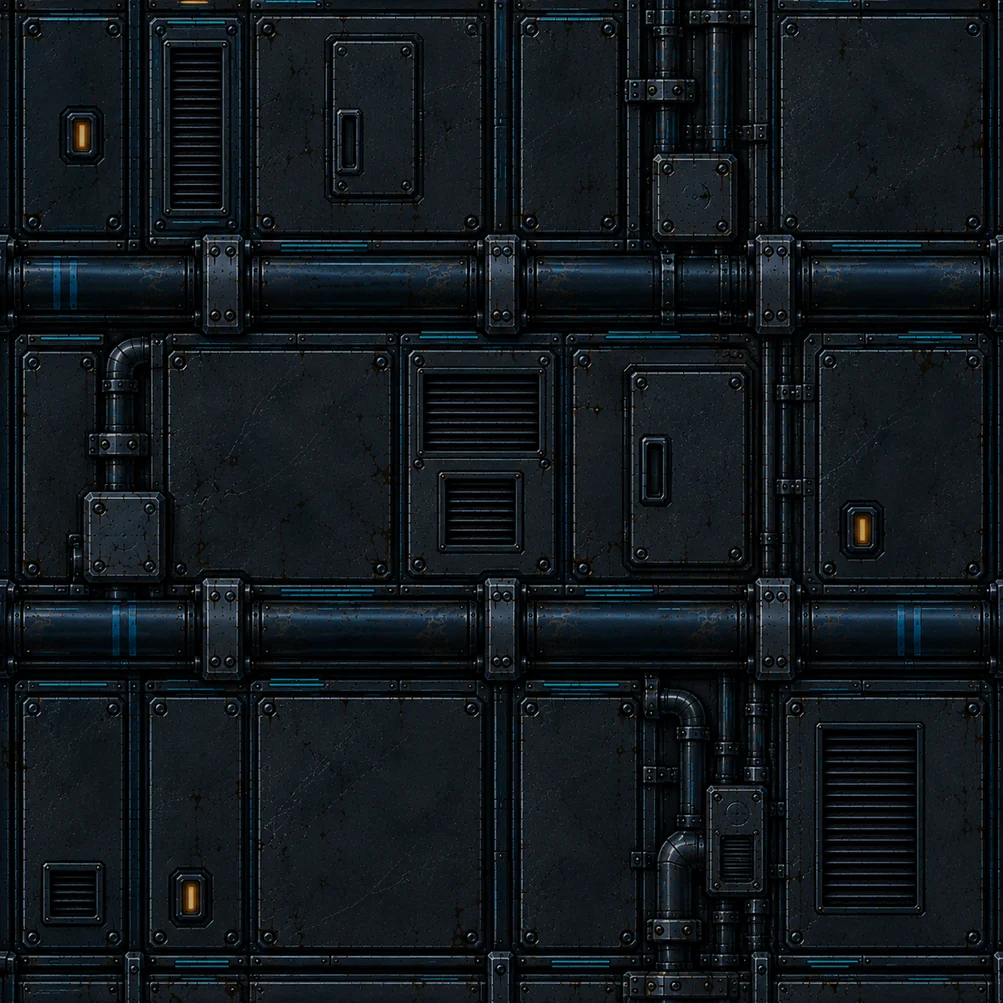
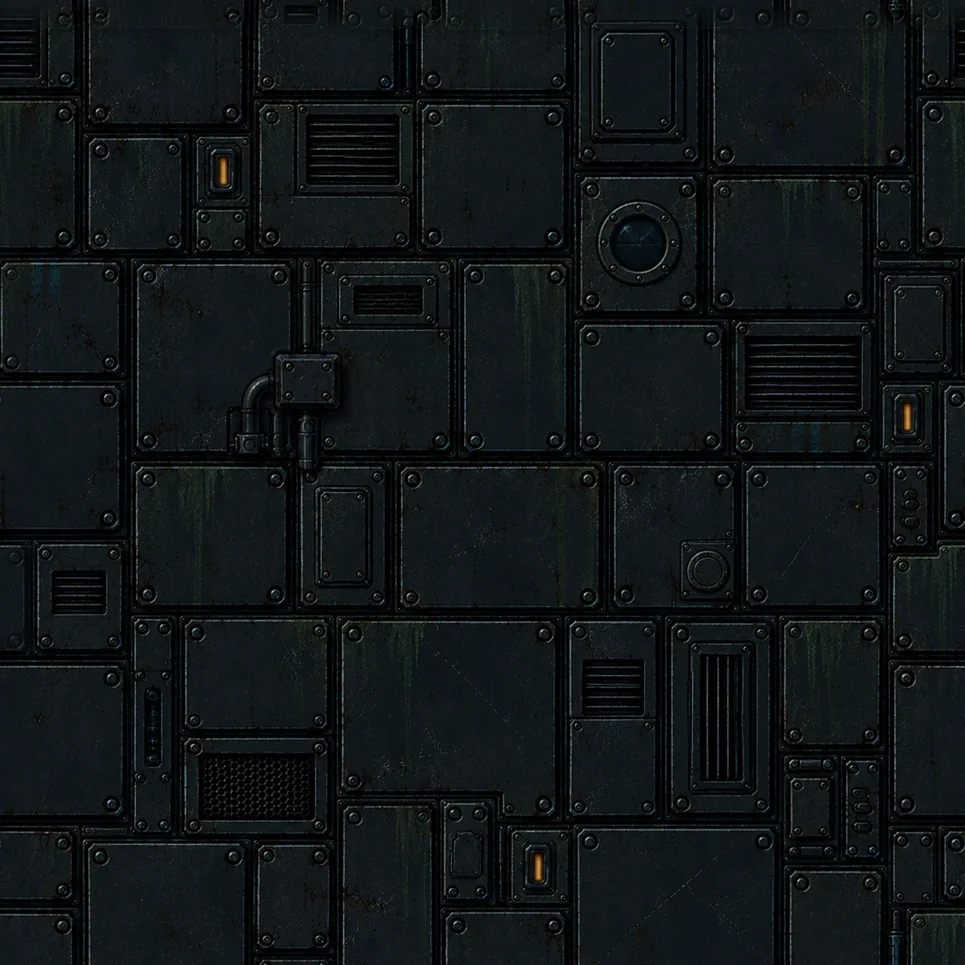
Serre en 2D : une tôle calme, sa salle des machines, des vitrages variés
Symptômes (analyse du rendu du module, 02/10) :
- la tôle se répétait en bandes : une seule variante par rangée, le même
  motif ~8 fois d'affilée sur la longueur du module ;
- les deux tôles n'avaient pas la même échelle (3 rangées de tuyaux contre
  2), et leurs tuyaux horizontaux se confondaient avec les tubes de la
  mini-carte — les tubes éteints disparaissaient ;
- la serre ne se reconnaissait qu'à son rebord ; trois baies identiques se
  lisaient comme un copier-coller ; la marche de la salle des machines
  avait la même tôle que le reste.

Correctifs :
- deux tôles calmes livrées, sans tuyau traversant ; le script refait leur
  raccord haut/bas, que le générateur ratait (écart au bord 8 à 20 fois
  celui de deux lignes voisines) ;
- variante tirée au sort par rangée, chaque carreau retourné ou non (le
  miroir horizontal garde le raccord) ;
- une tôle de salle des machines sur la marche de chaque forme
  (MiseEnPage.machines) ; une deuxième baie en alternance, une colonne de
  culture entre deux voies ; un halo vert autour des vitrages ; un liseré
  d'ombre sous les tubes ;
- les bords, coins et angles portaient l'ancienne tôle dans leur moitié
  intérieure : peints sur un calque, seule la bande du rebord est gardée,
  fondue vers la nouvelle tôle.

Vérification : 4 tests neufs (salle des machines par forme, colonne sans
contact avec une cellule — rouge avec une colonne deux fois plus haute —,
[…]

Changed region(s): [[0.0, 0.0, 1.0, 1.0]]

diff --git a/src/render/module2dCanvas.ts b/src/render/module2dCanvas.ts
@@ -9,6 +9,7 @@ import { TUBE, type MiseEnPage } from './module2d'
 export const PIECES_MODULE2D = [
   'tempere-tole',
   'tempere-tole-2',
+  'tempere-tole-machines',
   'tempere-bord-haut',
   'tempere-bord-bas',
   'tempere-bout-gauche',
@@ -20,6 +21,8 @@ export const PIECES_MODULE2D = [
   'tempere-rentrant-haut',
   'tempere-rentrant-bas',
   'tempere-baie',
+  'tempere-baie-2',
+  'tempere-colonne',
   'tempere-trappe',
   'tempere-machinerie',
   'cellule-joue',
@@ -63,6 +66,11 @@ const LIGNE_BAS = 292.5 // bord-bas : le bas de la quille
 const LIGNE_GAUCHE = 225 // bout-gauche : le bord extérieur du capot
 const LIGNE_DROITE = 294.5 // bout-droit
 const BANDE_BOUT = 150 // la bande du capot, sans collier, prise en haut de l'image
+// la bande gardée des bords, depuis la silhouette, en largeurs de salle :
+// le rebord et la rangée de vitrages qu'il porte (0,26 mesuré sur le bord
+// haut peint), puis le fondu vers la tôle
+const REBORD = 0.28
+const FONDU_REBORD = 0.12
 // les coins : où tombe le sommet de la silhouette, et leur échelle propre
 // — le générateur ne les a pas peints à l'échelle des bords
 const COINS: Record<string, { ax: number; ay: number; k: number }> = {
@@ -102,7 +110,31 @@ export function peintModule2d(mp: MiseEnPage, p: Pieces, fen?: Fenetre): HTMLCan
     : { x0: -Infinity, y0: -Infinity, x1: Infinity, y1: Infinity }
   const hors = (x0: number, y0: number, x1: number, y1: number) => x1 < vu.x0 || x0 > vu.x1 || y1 < vu.y0 || y0 > vu.y1
   const img = (n: string) => p.get(n)!
-  // 1. la tôle, dans la silhouette : les deux variantes par rangées décalées
+  // 1. la tôle, dans la silhouette. Une variante par rangée, tirée au sort,
+  // et chaque carreau retourné ou non : une rangée d'une seule variante
+  // montrait le même motif ~8 fois d'affilée (analyse du 02/10). Le miroir
+  // horizontal garde le raccord — le bord droit d'un carreau retourné est
+  // le bord gauche de l'original —, mélanger les variantes dans une rangée
+  // ferait des coutures
+  const tire = (i: number, j: number) => (((i * 73856093) ^ (j * 19349663)) >>> 0) % 1000 / 1000
+  const pave = (im: HTMLImageElement, x0: number, y0: number, x1: number, y1: number, graine: number) => {
+    const tl = im.width * fi
+    for (let i = 0, y = y0; y < y1; i++, y += tl) {
+      if (hors(x0, y, x1, y + tl)) continue
+      const dec = ((i * 211 + graine) % im.width) * fi
+      for (let j = 0, x = x0 - dec; x < x1; j++, x += tl) {
+        if (hors(x, y, x + tl, y + tl)) continue
+        if (tire(i + graine, j) < 0.5) c.drawImage(im, x, y, tl + 0.5, tl + 0.5)
+        else {
+          c.save()
+          c.translate(x + tl, y)
+          c.scale(-1, 1)
+          c.drawImage(im, -0.5, 0, tl + 0.5, tl + 0.5)
+          c.restore()
+        }
+      }
+    }
+  }
   c.save()
   c.beginPath()
   mp.silhouette.forEach((s, i) => (i ? c.lineTo(s.x, s.y) : c.moveTo(s.x, s.y)))
@@ -112,14 +144,40 @@ export function peintModule2d(mp: MiseEnPage, p: Pieces, fen?: Fenetre): HTMLCan
   const tl = toles[0].width * fi
   for (let i = 0, y = 0; y < mp.hauteur; i++, y += tl) {
     if (hors(0, y, mp.largeur, y + tl)) continue
-    const dec = ((i * 211) % toles[0].width) * fi
-    for (let x = -dec; x < mp.largeur; x += tl) if (!hors(x, y, x + tl, y + tl)) c.drawImage(toles[i % 2], x, y, tl + 0.5, tl + 0.5)
+    c.save()
+    c.beginPath()
+    c.rect(0, y, mp.largeur, tl)
+    c.clip()
+    pave(toles[tire(i, 7) < 0.5 ? 0 : 1], 0, y, mp.largeur, y + tl, i * 37)
+    c.restore()
   }
-  // 2. les éléments uniques
+  // la salle des machines, sa propre tôle, séparée du reste par un joint
+  for (const z of mp.machines) {
+    if (hors(z.minX, z.minY, z.maxX, z.maxY)) continue
+    c.save()
+    c.beginPath()
+    c.rect(z.minX, z.minY, z.maxX - z.minX, z.maxY - z.minY)
+    c.clip()
+    pave(img('tempere-tole-machines'), z.minX, z.minY, z.maxX, z.maxY, 101)
+    c.restore()
+    c.strokeStyle = 'rgba(0,0,0,0.7)'
+    c.lineWidth = 0.012 * mp.densite
+    c.strokeRect(z.minX, z.minY, z.maxX - z.minX, z.maxY - z.minY)
+  }
+  // 2. les éléments uniques ; les vitrages de la serre débordent d'un halo
+  // vert sur la tôle : sans lui, la serre ne se reconnaissait qu'au rebord
   for (const e of mp.elements) {
     const im = img(`tempere-${e.nom}`)
     const h = (e.l * im.height) / im.width
-    if (hors(e.x - e.l / 2, e.y - h / 2, e.x + e.l / 2, e.y + h / 2)) continue
+    const r = Math.max(e.l, h) * 0.55
+    if (hors(e.x - r, e.y - r, e.x + r, e.y + r)) continue
+    if (e.nom === 'baie' || e.nom === 'baie-2' || e.nom === 'colonne') {
+      const g = c.createRadialGradient(e.x, e.y, 0, e.x, e.y, r)
+      g.addColorStop(0, 'rgba(90,200,120,0.09)')
+      g.addColorStop(1, 'rgba(90,200,120,0)')
+      c.fillStyle = g
+      c.fillRect(e.x - r, e.y - r, 2 * r, 2 * r)
+    }
     c.drawImage(im, e.x - e.l / 2, e.y - h / 2, e.l, h)
   }
   c.restore()
@@ -134,6 +192,9 @@ export function peintModule2d(mp: MiseEnPage, p: Pieces, fen?: Fenetre): HTMLCan
     c.translate(t.ax, t.ay)
     if (t.ax === t.bx) c.rotate(t.by > t.ay ? Math.PI / 2 : -Math.PI / 2)
     else if (t.bx < t.ax) c.rotate(Math.PI)
+    // un liseré d'ombre : les tubes éteints se perdaient dans la tôle
+    c.fillStyle = 'rgba(0,0,0,0.5)'
+    c.fillRect(-ep * 0.8, -ep * 0.8, long + ep * 1.6, ep * 1.6)
     c.beginPath()
     c.rect(-ep / 2, -ep / 2, long + ep, ep)
     c.clip()
@@ -150,6 +211,16 @@ export function peintModule2d(mp: MiseEnPage, p: Pieces, fen?: Fenetre): HTMLCan
   }
   // 4. les cellules
   for (const k of mp.cellules) if (!hors(k.x - k.l / 2, k.y - k.h / 2, k.x + k.l / 2, k.y + k.h / 2)) c.drawImage(img(`cellule-${k.etat}`), k.x - k.l / 2, k.y - k.h / 2, k.l, k.h)
+  // LES BORDS SUR UN CALQUE, FONDUS VERS L'INTÉRIEUR : bords, coins et
+  // angles rentrants ont été peints avec l'ANCIENNE tôle dans leur moitié
+  // intérieure — contre la nouvelle, une couture le long de toute la coque
+  // et des carrés plats aux angles (analyse du 02/10). Seule la bande du
+  // rebord, contre la silhouette, est gardée ; au-delà, elle s'efface
+  const calque = document.createElement('canvas')
+  calque.width = toile.width
+  calque.height = toile.height
+  const q = calque.getContext('2d')!
+  if (fen) q.setTransform(fen.k, 0, 0, fen.k, -fen.x * fen.k, -fen.y * fen.k)
   // 5. les bords : chaque arête selon son sens (silhouette horaire)
   const n = mp.silhouette.length
   const bandeG = img('tempere-bout-gauche')
@@ -165,7 +236,7 @@ export function peintModule2d(mp: MiseEnPage, p: Pieces, fen?: Fenetre): HTMLCan
       const bh = BANDE_BOUT * f
       for (let y = Math.min(a.y, b.y); y < Math.max(a.y, b.y); y += bh) {
         const reste = Math.min(bh, Math.max(a.y, b.y) - y)
-        c.drawImage(im, 0, 0, im.width, (BANDE_BOUT * (LIVRE / 0.5) * reste) / bh, ox, y, im.width * fi, reste)
+        q.drawImage(im, 0, 0, im.width, (BANDE_BOUT * (LIVRE / 0.5) * reste) / bh, ox, y, im.width * fi, reste)
       }
     } else {
       const haut = b.x > a.x
@@ -174,7 +245,7 @@ export function peintModule2d(mp: MiseEnPage, p: Pieces, fen?: Fenetre): HTMLCan
       const lw = im.width * fi
       for (let x = Math.min(a.x, b.x); x < Math.max(a.x, b.x); x += lw) {
         const reste = Math.min(lw, Math.max(a.x, b.x) - x)
-        c.drawImage(im, 0, 0, (im.width * reste) / lw, im.height, x, oy, reste, im.height * fi)
+        q.drawImage(im, 0, 0, (im.width * reste) / lw, im.height, x, oy, reste, im.height * fi)
       }
     }
   }
@@ -189,19 +260,56 @@ export function peintModule2d(mp: MiseEnPage, p: Pieces, fen?: Fenetre): HTMLCan
     const hTout = im.height * fi
     const h = Math.min(hTout, pt.h)
     const sy = ((hTout - h) / 2 / hTout) * im.height
-    c.drawImage(im, 0, sy, im.width, (h / hTout) * im.height, pt.x - ligne * f, pt.y - h / 2, im.width * fi, h)
+    q.drawImage(im, 0, sy, im.width, (h / hTout) * im.height, pt.x - ligne * f, pt.y - h / 2, im.width * fi, h)
   }
   // 7. les coins et les angles rentrants
   for (const s of mp.silhouette) {
     if (hors(s.x, s.y, s.x, s.y)) continue
     const k = COINS[s.piece]
     const im = img(`tempere-${s.piece}`)
-    c.save()
-    c.translate(s.x, s.y)
-    if (s.miroir) c.scale(-1, 1)
-    c.drawImage(im, -k.ax * f * k.k, -k.ay * f * k.k, im.width * fi * k.k, im.height * fi * k.k)
-    c.restore()
+    q.save()
+    q.translate(s.x, s.y)
+    if (s.miroir) q.scale(-1, 1)
+    q.drawImage(im, -k.ax * f * k.k, -k.ay * f * k.k, im.width * fi * k.k, im.height * fi * k.k)
+    q.restore()
   }
+  // le masque : 1 au cœur de la coque, 0 contre la silhouette, un fondu entre
+  const masque = document.createElement('canvas')
+  masque.width = toile.width
+  masque.height = toile.height
+  const m = masque.getContext('2d')!
+  if (fen) m.setTransform(fen.k, 0, 0, fen.k, -fen.x * fen.k, -fen.y * fen.k)
+  const contour = () => {
+    m.beginPath()
+    mp.silhouette.forEach((s, i) => (i ? m.lineTo(s.x, s.y) : m.moveTo(s.x, s.y)))
+    m.closePath()
+  }
+  contour()
+  m.fillStyle = '#000'
+  m.fill()
+  m.globalCompositeOperation = 'destination-out'
+  m.strokeStyle = '#000'
+  const D = REBORD * mp.densite
+  const F = FONDU_REBORD * mp.densite
+  for (let k = 0; k < 4; k++) {
+    m.globalAlpha = 0.5
+    m.lineWidth = 2 * (D + (F * (4 - k)) / 4)
+    contour()
+    m.stroke()
+  }
+  m.globalAlpha = 1
+  m.lineWidth = 2 * D
+  contour()
+  m.stroke()
+  q.setTransform(1, 0, 0, 1, 0, 0)
+  q.globalCompositeOperation = 'destination-out'
+  q.drawImage(masque, 0, 0)
+  c.save()
+  c.setTransform(1, 0, 0, 1, 0, 0)
+  c.drawImage(calque, 0, 0)
+  c.restore()
+  // rendre la mémoire tout de suite : deux toiles de plus, à chaque salle
+  calque.width = calque.height = masque.width = masque.height = 0
   // 8. les équipements, debout sur les bords hauts
   for (const e of mp.equipements) {
     if (hors(e.x, e.y - 0.6 * mp.densite, e.x, e.y)) continue

diff --git a/src/render/module2d.ts b/src/render/module2d.ts
@@ -66,6 +66,8 @@ export interface MiseEnPage {
   salle: Rect
   cellules: { x: number; y: number; l: number; h: number; etat: EtatCellule }[]
   tubes: { ax: number; ay: number; bx: number; by: number; etat: EtatTube }[]
+  /** les zones peintes en tôle de salle des machines, en pixels de toile */
+  machines: Rect[]
   /** les éléments uniques posés sur la tôle : centre, largeur */
   elements: { nom: string; x: number; y: number; l: number }[]
   /** les équipements extérieurs posés sur un bord haut : pied, largeur relative */
@@ -204,6 +206,25 @@ function elementDeForme(forme: FormeModule, c: [number, number][]): { nom: strin
   return { nom: 'machinerie', x: c[4][0] + 0.3, y: (c[5][1] + c[10][1]) / 2, l: 0.5 }
 }
 
+/** LA SALLE DES MACHINES de chaque forme, en largeurs de salle : la marche
+ *  sous la poupe (étagée), les deux nacelles (dorsale), la tuyère (fuseau).
+ *  Peinte de la même tôle que le reste, la forme ne se lisait qu'à la
+ *  silhouette, jamais dedans (analyse du 02/10). */
+function zonesMachines(forme: FormeModule, c: [number, number][]): [number, number, number, number][] {
+  if (c.length === 4) return []
+  if (forme === 'etagee') return [[c[10][0], c[10][1], c[8][0], c[8][1]]]
+  if (forme === 'dorsale')
+    return [
+      [c[9][0], c[6][1], c[7][0], c[8][1]],
+      [c[13][0], c[10][1], c[11][0], c[12][1]],
+    ]
+  if (c.length < 16) return []
+  return [[c[6][0], c[6][1], c[7][0], c[8][1]]]
+}
+
+/** La colonne de culture : hauteur / largeur de sa pièce livrée. */
+export const RATIO_COLONNE = 3.26
+
 /** CHAQUE ANGLE PREND SA PIÈCE selon le sens du contour (horaire à l'écran) :
  *  un virage à droite est un coin saillant, à gauche un angle rentrant —
  *  les deux angles rentrants livrés, et leurs miroirs. */
@@ -294,8 +315,14 @@ export function miseEnPage(salle: Rect, vue: VueModule2d, forme: FormeModule = '
       const [u, w] = cel(r, v + 0.5)
       const k = (r * 2 + v) % 5
       const bout = r === 0 || r === vue.rangs - 1
-      const nom = bout && k % 2 === 1 ? 'machinerie' : k === 0 ? 'baie' : k === 3 ? 'trappe' : null
-      if (nom) elements.push({ nom, x: X(u), y: Y(w), l: (nom === 'baie' ? 0.95 : nom === 'trappe' ? 0.5 : 0.8) * densite })
+      // deux baies en alternance et une colonne de culture : les trois
+      // mêmes baies côte à côte se lisaient comme un copier-coller
+      const nom =
+        bout && k % 2 === 1 ? 'machinerie' : k === 0 ? (r % 2 ? 'baie-2' : 'baie') : k === 2 ? 'colonne' : k === 3 ? 'trappe' : null
+      if (!nom) continue
+      // la colonne, verticale, tient entre deux voies sans toucher leurs cellules
+      const l = { baie: 0.95, 'baie-2': 0.9, colonne: (0.6 * py) / RATIO_COLONNE, trappe: 0.5, machinerie: 0.8 }[nom]
+      elements.push({ nom, x: X(u), y: Y(w), l: l * densite })
     }
   // l'élément de la forme : la grande baie sur le pont, la trappe en haut de
   // la tour, la machinerie dans la poupe
@@ -326,6 +353,7 @@ export function miseEnPage(salle: Rect, vue: VueModule2d, forme: FormeModule = '
     salle: { minX: X(-0.5), maxX: X(0.5), minY: Y(-hr / 2), maxY: Y(hr / 2) },
     cellules,
     tubes,
+    machines: zonesMachines(forme, contour).map(([x0, y0, x1, y1]) => ({ minX: X(x0), minY: Y(y0), maxX: X(x1), maxY: Y(y1) })),
     elements,
     equipements,
     colliers: {

diff --git a/src/render/module2d.spec.ts b/src/render/module2d.spec.ts
@@ -4,6 +4,7 @@
 import { describe, expect, it } from 'vitest'
 import {
   CELLULE_L,
+  RATIO_COLONNE,
   DUREE_TRANSITION,
   TOILE_MAX,
   TRANSITION,
@@ -277,4 +278,44 @@ describe('module 2D — rien ne se pose contre la salle jouée', () => {
         }
       }
     })
+})
+
+describe('module 2D — les pièces de la serre', () => {
+  it('chaque forme a sa salle des machines, dans la coque ; un module court n’en a pas', () => {
+    for (const forme of ['etagee', 'fuseau', 'dorsale'] as const) {
+      const m = miseEnPage(salle, vue, forme)
+      expect(m.machines.length).toBeGreaterThan(0)
+      const xs = m.silhouette.map((s) => s.x)
+      const ys = m.silhouette.map((s) => s.y)
+      for (const z of m.machines) {
+        expect(z.maxX - z.minX).toBeGreaterThan(0.2 * m.densite)
+        expect(z.maxY - z.minY).toBeGreaterThan(0.2 * m.densite)
+        expect(z.minX).toBeGreaterThanOrEqual(Math.min(...xs))
+        expect(z.maxX).toBeLessThanOrEqual(Math.max(...xs))
+        expect(z.minY).toBeGreaterThanOrEqual(Math.min(...ys))
+        expect(z.maxY).toBeLessThanOrEqual(Math.max(...ys))
+      }
+    }
+    expect(miseEnPage(salle, { ...vue, rangs: 2, rang: 0, joues: [] }).machines).toEqual([])
+  })
+
+  for (const hr of [0.66, 1.0])
+    it(`la colonne de culture tient entre deux voies sans toucher une cellule (salle ${hr === 1 ? 'carrée' : '3:2'})`, () => {
+      const m = miseEnPage({ minX: 0, minY: 0, maxX: 1000, maxY: 1000 * hr }, vue)
+      const colonnes = m.elements.filter((e) => e.nom === 'colonne')
+      expect(colonnes.length).toBeGreaterThan(0)
+      for (const e of colonnes) {
+        const h = e.l * RATIO_COLONNE
+        for (const k of m.cellules) {
+          const touche = Math.abs(e.x - k.x) < (e.l + k.l) / 2 && Math.abs(e.y - k.y) < (h + k.h) / 2
+          expect(touche).toBe(false)
+        }
+      }
+    })
+
+  it('deux baies différentes en alternance, plus de trois copies de la même', () => {
+    const noms = miseEnPage(salle, vue).elements.map((e) => e.nom)
+    expect(noms).toContain('baie')
+    expect(noms).toContain('baie-2')
+  })
 })

diff --git a/tools/images/coque2d.py b/tools/images/coque2d.py
@@ -71,6 +71,21 @@ def ecrit(nom: str, a: np.ndarray) -> None:
     print(f'  {nom} : {im.width}×{im.height}, {out.stat().st_size // 1024} Ko')
 
 
+def raccorde(a: np.ndarray, b: int = 48) -> np.ndarray:
+    """Rend une tôle VRAIMENT raccordable : le générateur promet le raccord
+    mais le rate souvent en haut/bas (tôles du 02/10 : écart au bord 8 à 20
+    fois celui de deux lignes voisines, une couture visible à chaque rangée).
+    Les b dernières lignes (puis colonnes) sont fondues dans les b premières ;
+    l'image perd b pixels par côté et devient périodique."""
+    for _ in range(2):
+        h = a.shape[0]
+        w = np.linspace(0, 1, b)[:, None, None]
+        tete = a[h - b:] * (1 - w) + a[:b] * w
+        a = np.concatenate([tete, a[b:h - b]], axis=0)
+        a = a.transpose(1, 0, 2)
+    return a
+
+
 def sombre(a: np.ndarray, k: float) -> np.ndarray:
     b = a.copy()
     b[..., :3] *= k
@@ -128,15 +143,15 @@ EQUIPEMENTS = {
 
 def main() -> None:
     b = 'tempere-'
-    for n in ('tole', 'tole-2'):
-        ecrit(f'{b}{n}', sombre(lit(b + n), SOMBRE_COQUE))
+    for n in ('tole', 'tole-2', 'tole-machines'):
+        ecrit(f'{b}{n}', sombre(raccorde(lit(b + n)), SOMBRE_COQUE))
     for n in ('bord-haut', 'bord-bas', 'bout-gauche', 'bout-droit', 'coin-haut-gauche', 'coin-bas-gauche',
               'coin-bas-droit', 'rentrant-haut', 'rentrant-bas'):
         ecrit(f'{b}{n}', sombre(detoure(lit(b + n)), SOMBRE_COQUE))
     # le coin haut-droit : le haut-gauche en miroir (le générateur a rendu
     # deux fois le même coin)
     ecrit(f'{b}coin-haut-droit', sombre(detoure(lit(b + 'coin-haut-gauche')[:, ::-1]), SOMBRE_COQUE))
-    for n in ('baie', 'trappe', 'machinerie'):
+    for n in ('baie', 'baie-2', 'colonne', 'trappe', 'machinerie'):
         ecrit(f'{b}{n}', sombre(detoure(lit(b + n), rogne=True), SOMBRE_COQUE))
     cellule()
     planche = lit('equipements')

diff --git a/docs/assets-ia.md b/docs/assets-ia.md
@@ -2039,12 +2039,30 @@ quart et livre à moitié de la taille source) :
 | baie de serre, trappe ronde, bloc de machinerie | ✅ livrés 01/10 |
 | cellule de la mini-carte (quatre états précalculés) | ✅ livrée 01/10 |
 | équipements extérieurs (planche de six) | ✅ livrée 01/10 |
+| **tôle calme** (deux variantes, sans tuyau traversant) | ✅ livrées 02/10, remplacent les premières |
+| tôle de la salle des machines | ✅ livrée 02/10 |
+| deuxième baie (rangée de hublots), colonne de culture | ✅ livrées 02/10 |
+| planche de petits détails (six) | ⏳ à intégrer |
 
 **Une forme fixe par type de module** (`formeDuBiome`) : étagée pour la
 serre tempérée, fuseau pour la chaufferie, dorsale pour le cryo — les
 marches accrochées aux rangs de la mini-carte, jamais à la salle jouée.
 Pièces livrées à 80 % des sources : près de la salle, une seconde toile à
 850 px par largeur de salle garde le décor net quand on zoome.
+
+**L'analyse du 02/10, et ce qu'elle a changé** : la tôle se répétait en
+bandes (une variante par rangée, le même motif ~8 fois d'affilée) — la
+variante est tirée au sort par rangée et chaque carreau retourné ou non ;
+les deux premières tôles n'avaient pas la même échelle et leurs tuyaux
+horizontaux se confondaient avec les tubes de la mini-carte — remplacées
+par des tôles calmes, les tubes cernés d'un liseré d'ombre ; les vitrages
+débordent d'un halo vert ; la marche de la salle des machines a sa tôle.
+Le générateur rate le raccord haut/bas des tôles : le script le refait
+(`raccorde`). Les bords, coins et angles portent l'ANCIENNE tôle dans leur
+moitié intérieure : le moteur ne garde que la bande du rebord (0,28 salle)
+et la fond vers la tôle. Coût mesuré (rendu logiciel, médiane de 5) : la
+peinture des deux toiles passe de ~610 à ~800 ms, dont ~110 ms pour le
+calque des bords.
 
 **À venir** : les pièces propres de chaque module (la chaufferie et le
 cryo prennent celles de la serre en attendant) ; une deuxième variante de
